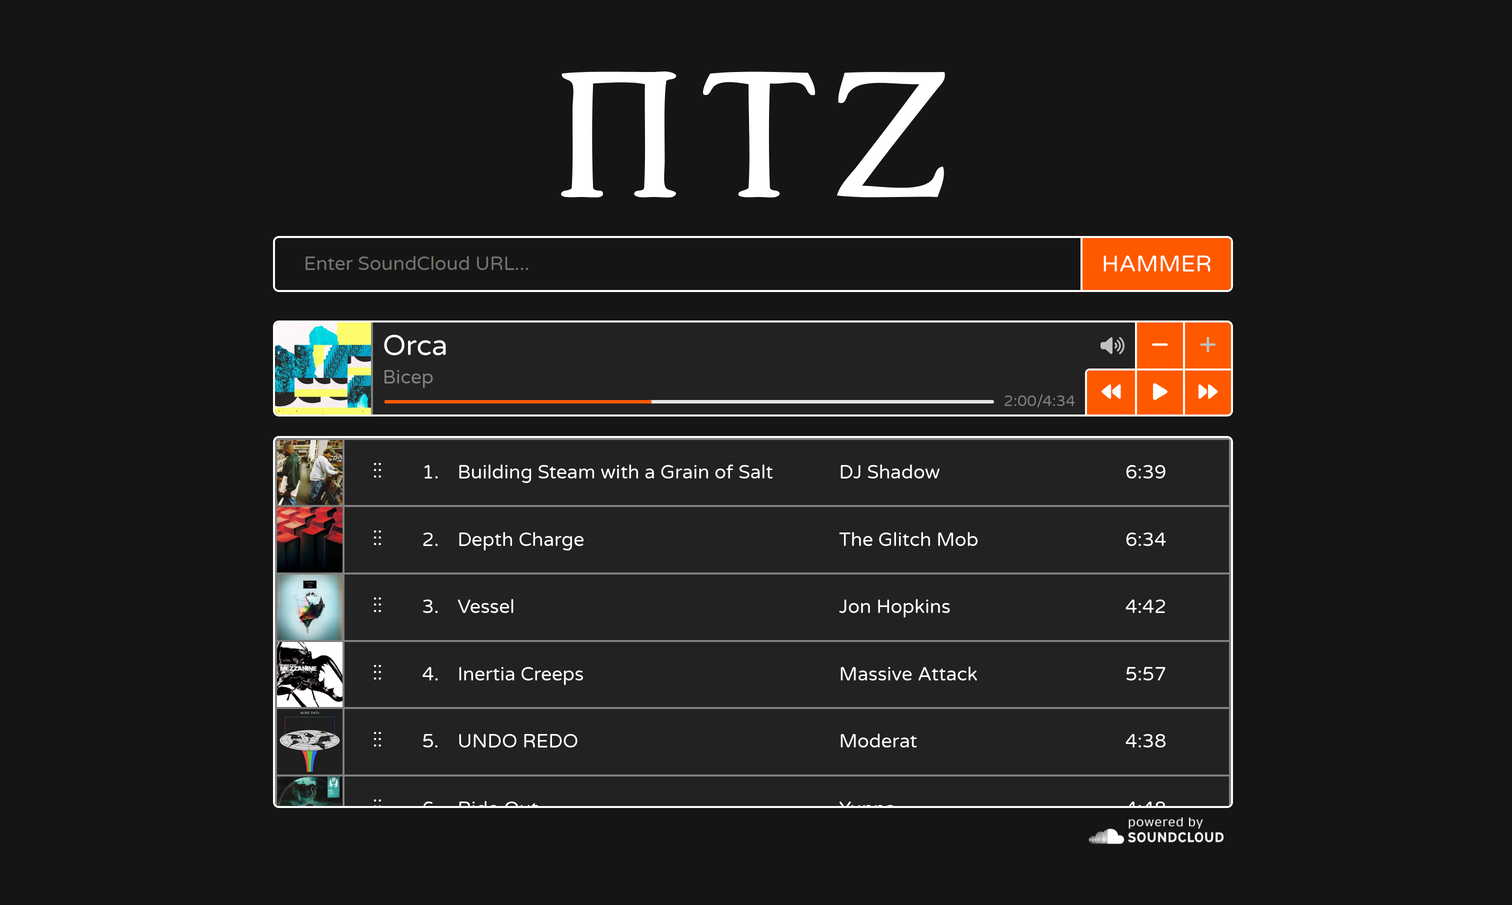
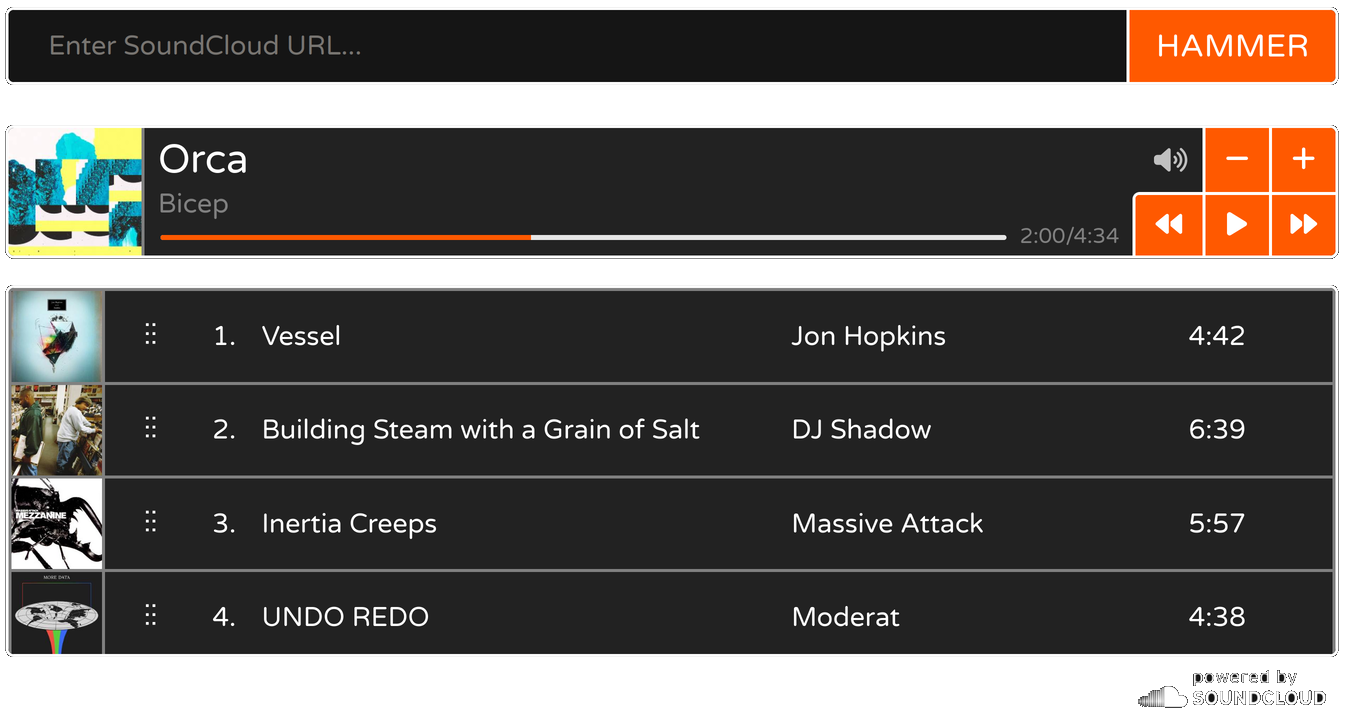
updated README

diff --git a/README.md b/README.md
@@ -1,70 +1,52 @@
-# Getting Started with Create React App
+<p style="text-align:center;"><img src="./resources/ptz.png" alt="drawing" style="width:200px;"/></p>
+<p style="text-align:center;"><img src="./resources/trackhammer-UI.png" alt="drawing" style="width:600px;"/></p>
+<h1 align="center">
+Trackhammer
+</h1>
+<p align="center">
+Trackhammer is a system for blasting tunes on East Campus 2W, written with React and Node.js. Anyone can visit the website and submit a SoundCloud link (including SoundCloud Go+ tracks). Trackhammer will add the song to the queue. Users can play, pause, skip, adjust the volume, and reorder the queue all from the website.
+</p>
+<div align="center">Heavily inspired by <a href="https://github.com/zbanks/musicazoo">Musicazoo</a>.</div>
 
-This project was bootstrapped with [Create React App](https://github.com/facebook/create-react-app).
+---
+## Code Overview:
+The goal of this section is to outline the bones of this project so that people who do a lil coding but don't know diddly squat about this kind of project can take a crack at maintaining it in the future.
 
-## Available Scripts
+The frontend is written with React. There are four main components:
+- App-Header (PTZ Logo)
+- Song-Entry (Text box + button)
+- Player (Currently playing song info + buttons)
+- Queue (List of upcoming songs)
 
-In the project directory, you can run:
+To maintain a snappy interface and minimize the feeling of latency, each component keeps track of its own state clientside.
+[Socket.io](https://socket.io/) is used to synchronize all clients with the most recent queue from the server.
+Any change that the user makes is immediately reflected locally.
+The client then broadcasts the change to the server, which updates its own state to reflect the change.
+The server then broadcasts its state to all clients, which update their state to reflect the server's.
 
-### `npm start`
+The one exception to this is when songs are added to the queue - the client queue will not update to reflect the new song until it has received the track information from the server - I didn't want to implement the SoundCloud API in the client lmao.
 
-Runs the app in the development mode.\
-Open [http://localhost:3000](http://localhost:3000) to view it in your browser.
+The backend is just Node.js and Socket.io (with a teeny bit of express). Fundamentally the server receives a request from the client and then does something. The action happens in the `sockets/` folder. There are only a few ways that the client interacts with the server:
+- `queue.js`
+	- Add a song to the queue
+	- Remove a song from the queue
+	- Reorder the queue
+- `player.js`
+	- Increase the volume
+	- Decrease the volume
+	- Mute/unmute
+	- Skip current song
+	- Restart current song
+	- Pause/play
 
-The page will reload when you make changes.\
-You may also see any lint errors in the console.
+Whenever a client requests some sort of change on the server, the server broadcasts relevant states to all clients which sync to the server's state.
+Only the currently playing song and the progress through that song are broadcast independent of any client request.
+The backend implementation of the SoundCloud API is \[NOT WRITTEN AS OF 6/16\].
 
-### `npm test`
+---
+Written by James Randall (MIT '28 EECS & STS).
 
-Launches the test runner in the interactive watch mode.\
-See the section about [running tests](https://facebook.github.io/create-react-app/docs/running-tests) for more information.
-
-### `npm run build`
-
-Builds the app for production to the `build` folder.\
-It correctly bundles React in production mode and optimizes the build for the best performance.
-
-The build is minified and the filenames include the hashes.\
-Your app is ready to be deployed!
-
-See the section about [deployment](https://facebook.github.io/create-react-app/docs/deployment) for more information.
-
-### `npm run eject`
-
-**Note: this is a one-way operation. Once you `eject`, you can't go back!**
-
-If you aren't satisfied with the build tool and configuration choices, you can `eject` at any time. This command will remove the single build dependency from your project.
-
-Instead, it will copy all the configuration files and the transitive dependencies (webpack, Babel, ESLint, etc) right into your project so you have full control over them. All of the commands except `eject` will still work, but they will point to the copied scripts so you can tweak them. At this point you're on your own.
-
-You don't have to ever use `eject`. The curated feature set is suitable for small and middle deployments, and you shouldn't feel obligated to use this feature. However we understand that this tool wouldn't be useful if you couldn't customize it when you are ready for it.
-
-## Learn More
-
-You can learn more in the [Create React App documentation](https://facebook.github.io/create-react-app/docs/getting-started).
-
-To learn React, check out the [React documentation](https://reactjs.org/).
-
-### Code Splitting
-
-This section has moved here: [https://facebook.github.io/create-react-app/docs/code-splitting](https://facebook.github.io/create-react-app/docs/code-splitting)
-
-### Analyzing the Bundle Size
-
-This section has moved here: [https://facebook.github.io/create-react-app/docs/analyzing-the-bundle-size](https://facebook.github.io/create-react-app/docs/analyzing-the-bundle-size)
-
-### Making a Progressive Web App
-
-This section has moved here: [https://facebook.github.io/create-react-app/docs/making-a-progressive-web-app](https://facebook.github.io/create-react-app/docs/making-a-progressive-web-app)
-
-### Advanced Configuration
-
-This section has moved here: [https://facebook.github.io/create-react-app/docs/advanced-configuration](https://facebook.github.io/create-react-app/docs/advanced-configuration)
-
-### Deployment
-
-This section has moved here: [https://facebook.github.io/create-react-app/docs/deployment](https://facebook.github.io/create-react-app/docs/deployment)
-
-### `npm run build` fails to minify
-
-This section has moved here: [https://facebook.github.io/create-react-app/docs/troubleshooting#npm-run-build-fails-to-minify](https://facebook.github.io/create-react-app/docs/troubleshooting#npm-run-build-fails-to-minify)
+This is my first web dev project, so I'm sure there's a lot I did wrong.
+I don't really gaf though, Putz is a doacracy so if you have a problem PULL REQUEST THAT SHIT!
+My CSS in particular is really messy and like doesn't follow convention at all because I was learning web dev and react at the same time I was writing it.
+Maybe one day it will be fixed ¯\\_(ツ)_/¯
